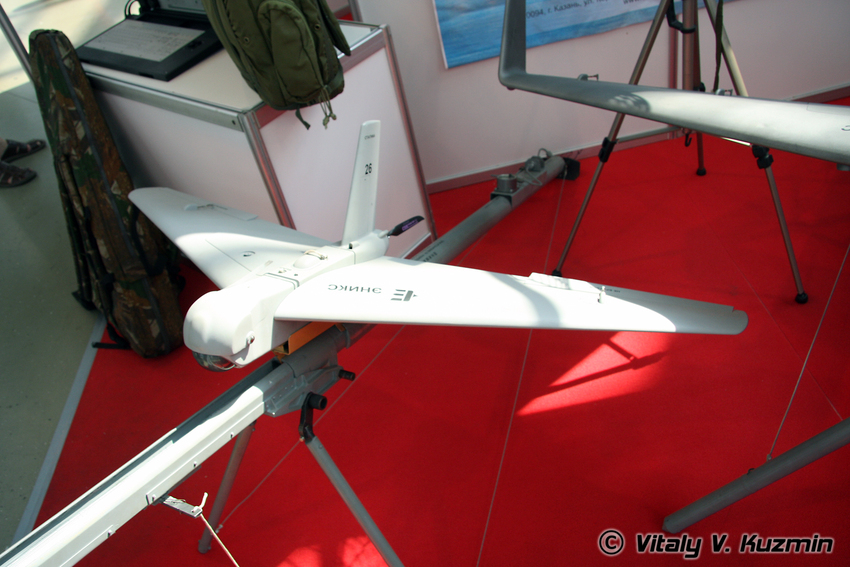
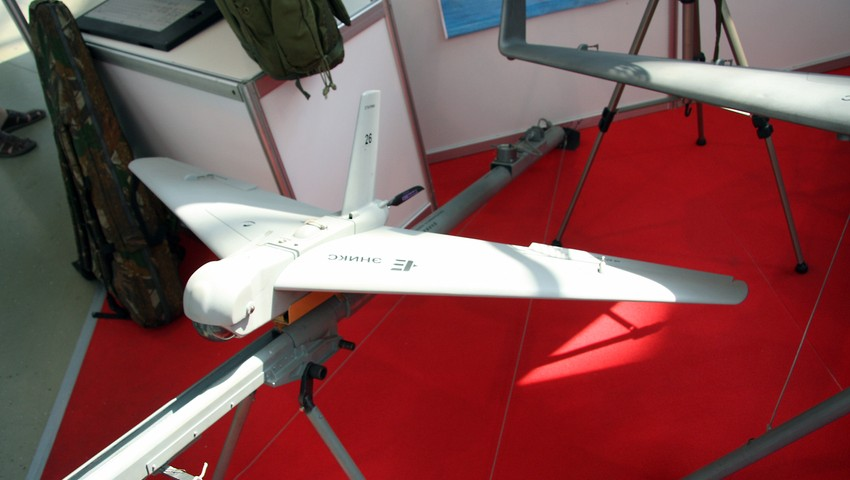
add info for uav, and fix some image size

diff --git a/src/equipment/uav/orlan-10/index.md b/src/equipment/uav/orlan-10/index.md
@@ -4,3 +4,25 @@ category: uav
 image: ./orlan-10.jpg
 source: https://uk.wikipedia.org/wiki/%D0%9E%D1%80%D0%BB%D0%B0%D0%BD-10
 ---
+
+Багатоцільовий безпілотний авіаційний комплекс, призначений для ведення спостереження за протяжними і локальними об'єктами у важкодоступній місцевості виробництва ТОВ «Спеціальний технологічний центр», Санкт-Петербург, Росія. Використовує двигун внутрішнього згоряння як силову установку.
+
+Багатофункціональний безпілотний авіаційний комплекс, призначений для ведення спостереження за протяжними і локальними об'єктами у важкодоступній місцевості, в тому числі при проведенні пошукових та ремонтних робіт. Розроблено російським підприємством «Спеціальний технологічний центр».
+
+До складу комплексу входять робочі місця операторів, обладнання радіоканалів управління і передачі даних, обладнання для технічного обслуговування і забезпечення старту БПЛА, бензогенератор 1 кВт для забезпечення автономної роботи.
+
+Комплекс «Орлан-10» складається з базової станції та декількох БПЛА. Максимальна злітна маса БПЛА за різними даними від 14 до 18 кг, з яких на корисне навантаження припадає 5 кг. Стартує з розбірної катапульти, здатний передавати відео на відстань до 120 км. Комплекс з ПДК, стартової катапульти та 4 БПЛА може перевозитися на автомобілі «УАЗ»-469 або «Рись» (італійський багатоцільовий броньований автомобіль Iveco LMV, що з кінця 2010 року збирається на КАМАЗ).
+
+Пункт управління БЛА «Орлан-10» має можливість здійснювати управління не більше ніж чотирма безпілотними літальними апаратами з одного пункту управління. За потреби із допомогою комплексу можливо організувати локальну мережу до 30 операторів для управління корисними навантаженнями одночасно запущеними БПЛА.
+
+Як карти можна використати растрове зображення місцевості з прив'язкою за декількома точками або електронна карта. Для маршруту можна вказати до 60 точок, в яких задається висота і ознака її обльоту: прохід по висоті або баражування. Коригування маршруту здійснюється за радіоканалом. Можливо вказати точку «Дім» і точки посадки, а також алгоритми поведінки у нештатних ситуаціях (втрата радіозв'язку, відсутність сигналів GPS, відмова двигуна). Оператором вказуються точки включення і виключення корисного навантаження, а при використанні фотоапарата — коефіцієнт перекриття кадрів.
+
+Можливості комплексу дозволяють оперативно заміняти корисне навантаження і склад бортового обладнання, забезпечувати відео- і фотозйомку в поєднанні з реєстрацією поточних параметрів (координати, висота, номер кадру), використовуватися в складних метеоумовах і з обмежених майданчиків, допускає розміщення контрольно-вимірювальної апаратури всередині консолей крила. Наявність бортового генератора дозволяє використовувати активні навантаження протягом всього польоту, так само можливе використання одного БПЛА як ретранслятор для інших.
+
+Літальний апарат змішаної конструкції (метал та пластмаса), конструкція виконана за класичною схемою високоплана з переднім розташуванням двигуна та гвинтом, що тягне.
+
+Може нести на борту декілька типів цільового устаткування: тепловізор, фотокамеру, гіростабілізовану відеокамеру, радіопередавач, ретранслятор, тощо.
+
+## Відео про техніку
+
+https://youtu.be/XycHb-MkJpA

diff --git a/src/equipment/uav/kub/index.md b/src/equipment/uav/kub/index.md
@@ -4,3 +4,26 @@ category: uav
 image: ./kub.jpg
 source: https://uk.wikipedia.org/wiki/%D0%9A%D1%83%D0%B1-%D0%91%D0%9B%D0%90
 ---
+
+Російський високоточний безпілотний літальний апарат. Розробник — група компаній ZALA AERO, що входять до концерну «Калашников».
+
+Новий малорозмірний ударний безпілотний літальний апарат «Куб-БЛА» розроблений російським концерном «Калашников» і вперше представлений на міжнародній виставці озброєнь IDEX 2019 в Абу-Дабі в Арабських Еміратах.
+У повідомленні концерну зазначається, що після запуску безпілотник може баражувати у повітрі, виявляючи ціль, а потім атакувати її з верхньої півсфери вертикальним пікіруванням. Це дозволяє, наприклад, вражати танки, пробиваючи верхню частину вежі та корпуси, що мають мінімальну товщину броні.
+«Куб-БЛА» доставляє корисне навантаження за координатами мети, які задаються вручну, або зображення з цільового навантаження наведення.
+Перевагами комплексу є прихований запуск, висока точність бомбометання, безшумність та простота у користуванні.
+В даний час ударний безпілотний комплекс «Куб-БЛА» успішно пройшов випробування та готовий до застосування. Зокрема, у листопаді 2021 року випробували морську модифікацію безпілотника-камікадзе для оснащення кораблів військово-морського флоту (ВМФ).
+
+12 березня 2022 року у Подільському районі Києва збили російський безпілотник-камікадзе. Ворожий дрон був начинений вибухівкою.
+
+Детальні дані про ТТХ невідомі.
+
+| Габарити                    | 1210х950х165 мм |
+| --------------------------- | --------------- |
+| Швидкість                   | 80-130 км/год   |
+| Тривалість польоту          | 30 хвилин       |
+| Маса корисного навантаження | 3 кг.           |
+
+
+## Відео про техніку
+
+https://youtu.be/dBMHKDtemu0

diff --git a/src/equipment/mines/sm/index.md b/src/equipment/mines/sm/index.md
@@ -5,7 +5,7 @@ image: ./sm.jpg
 source: http://saper.isnet.ru/mines/sm.html
 ---
 
-Мsна сигнальна натяжної дії. Призначена для подачі звукового та світлового сигналу, коли солдат противника (техніка), зачепившись ногою (колесом, корпусом) за проволочну розтяжку, витягне бойову чеку.
+Міна сигнальна натяжної дії. Призначена для подачі звукового та світлового сигналу, коли солдат противника (техніка), зачепившись ногою (колесом, корпусом) за проволочну розтяжку, витягне бойову чеку.
 
 Міна встановлюється вручну в ґрунт, а при неможливості установки в ґрунт - на нього. Також можлива установка міни закріплення на різних місцевих предметах.
 
